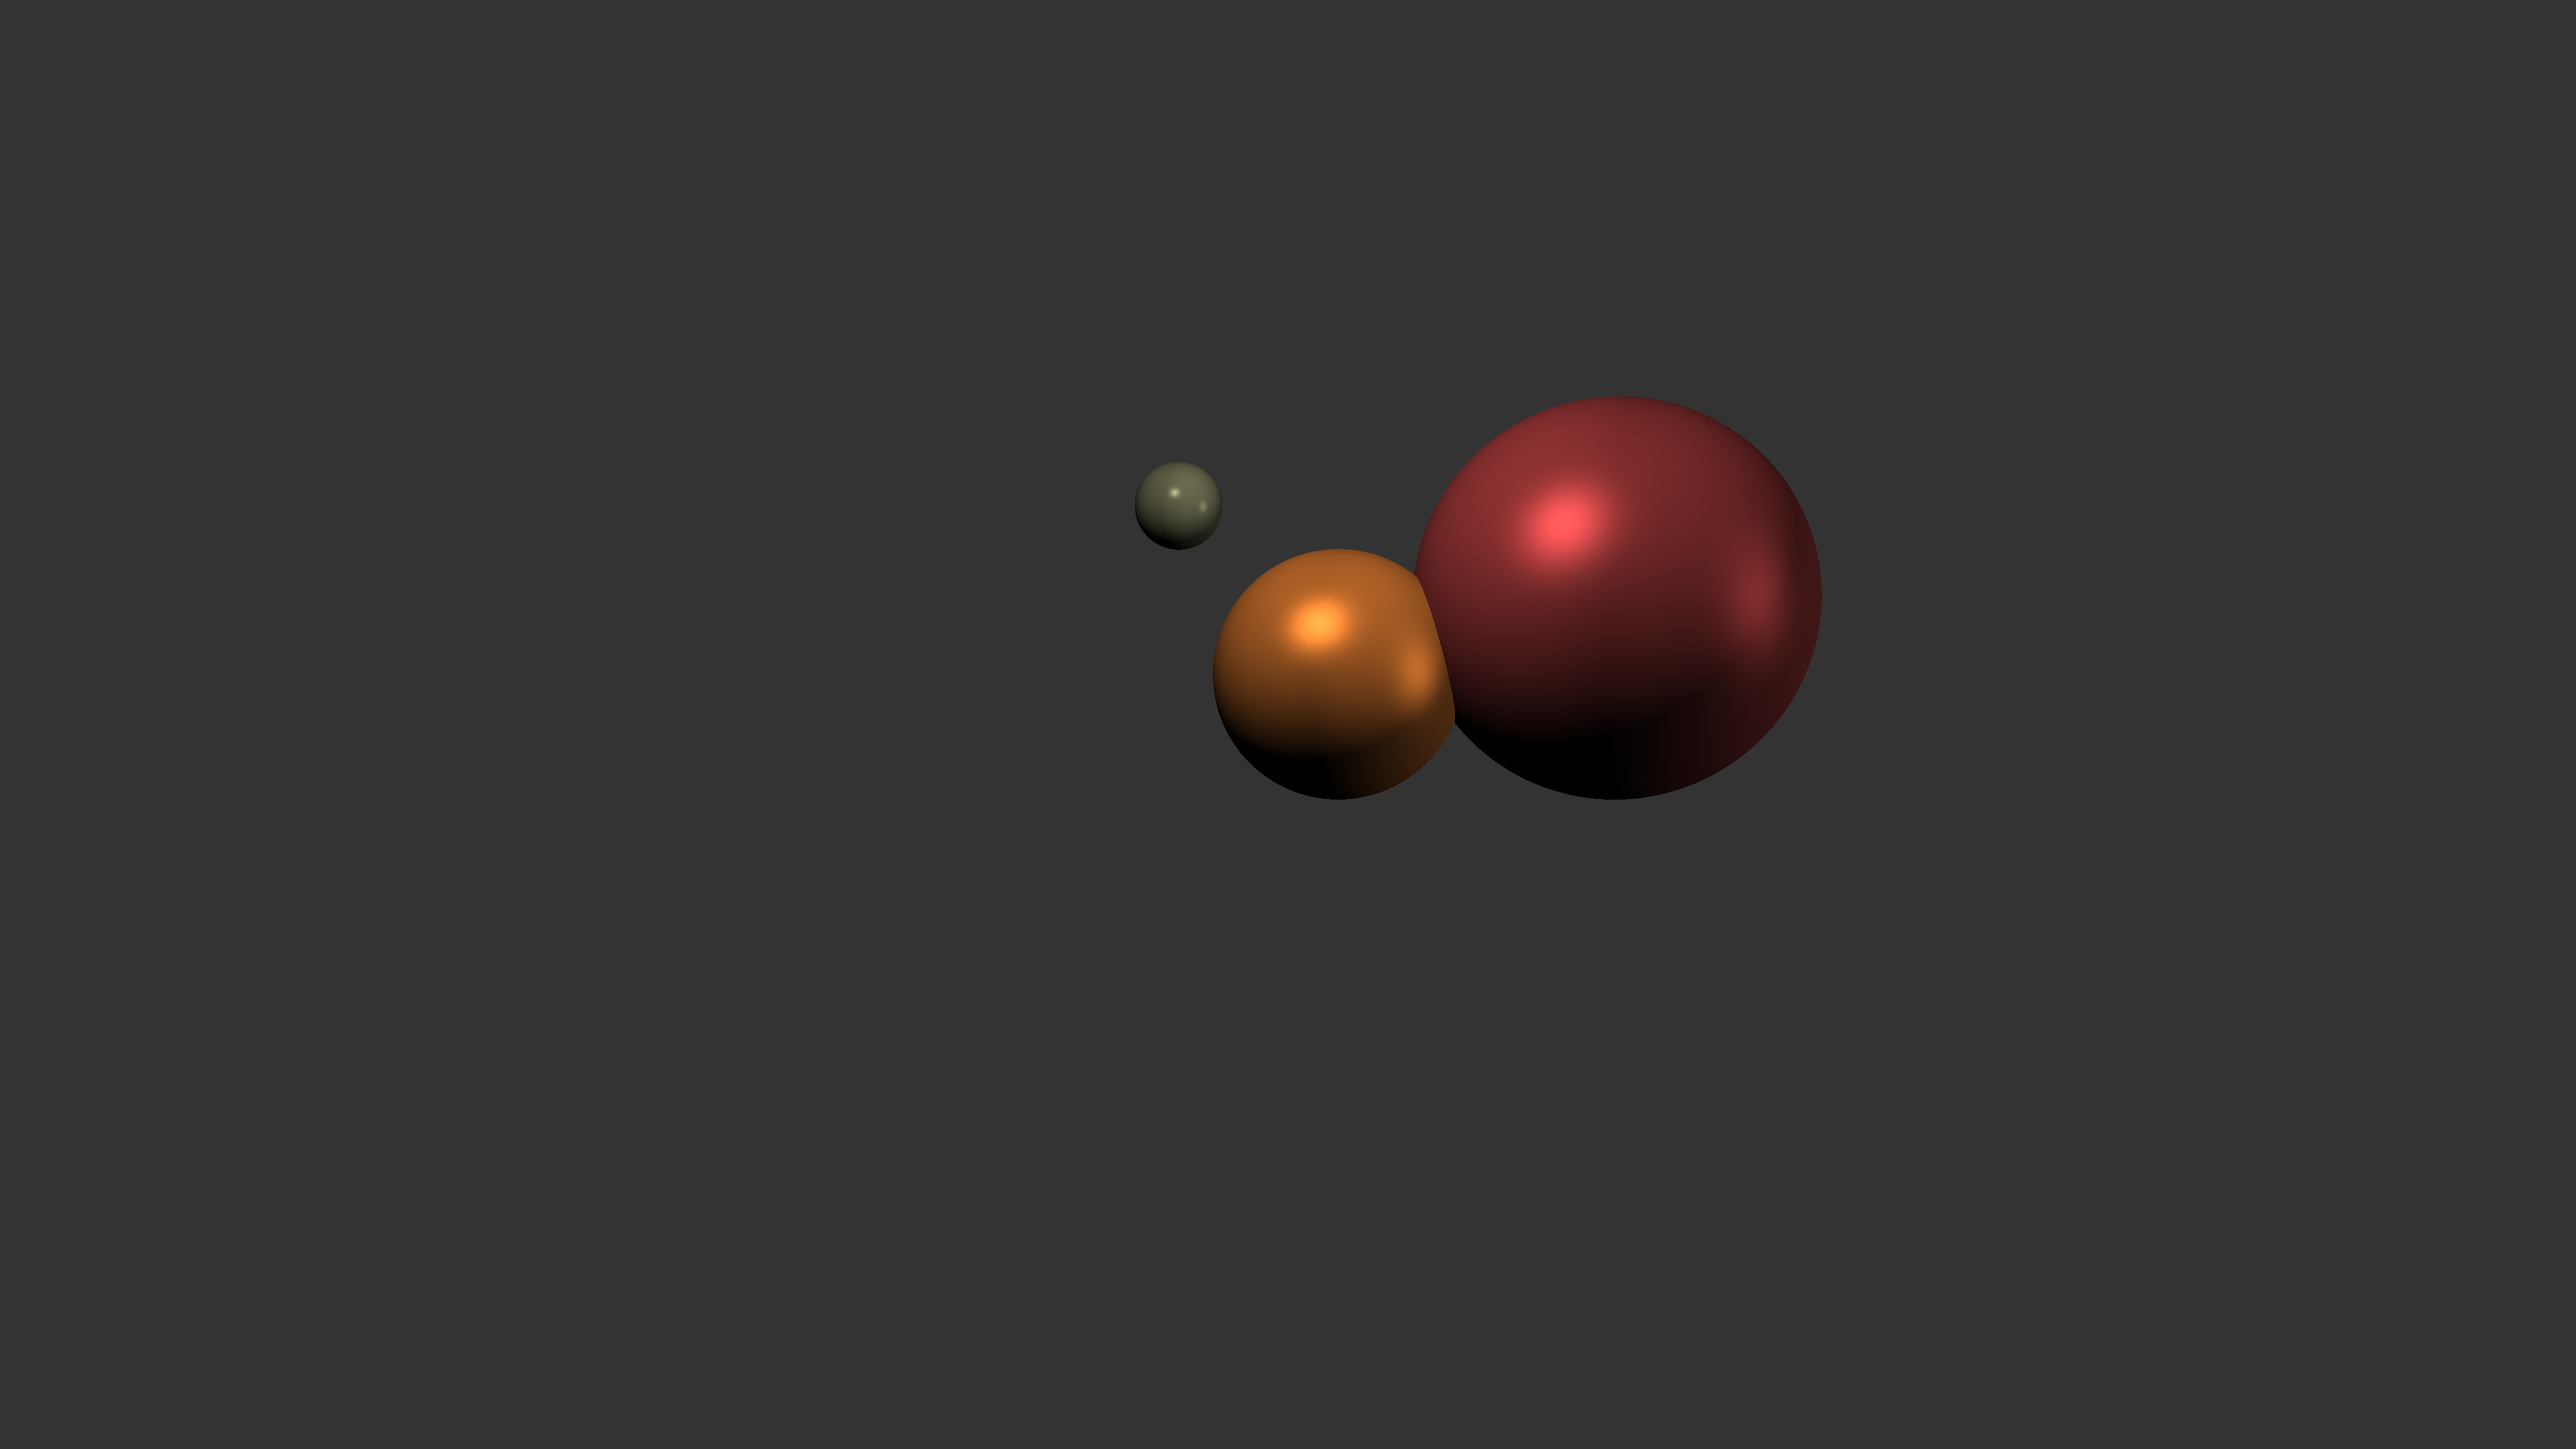
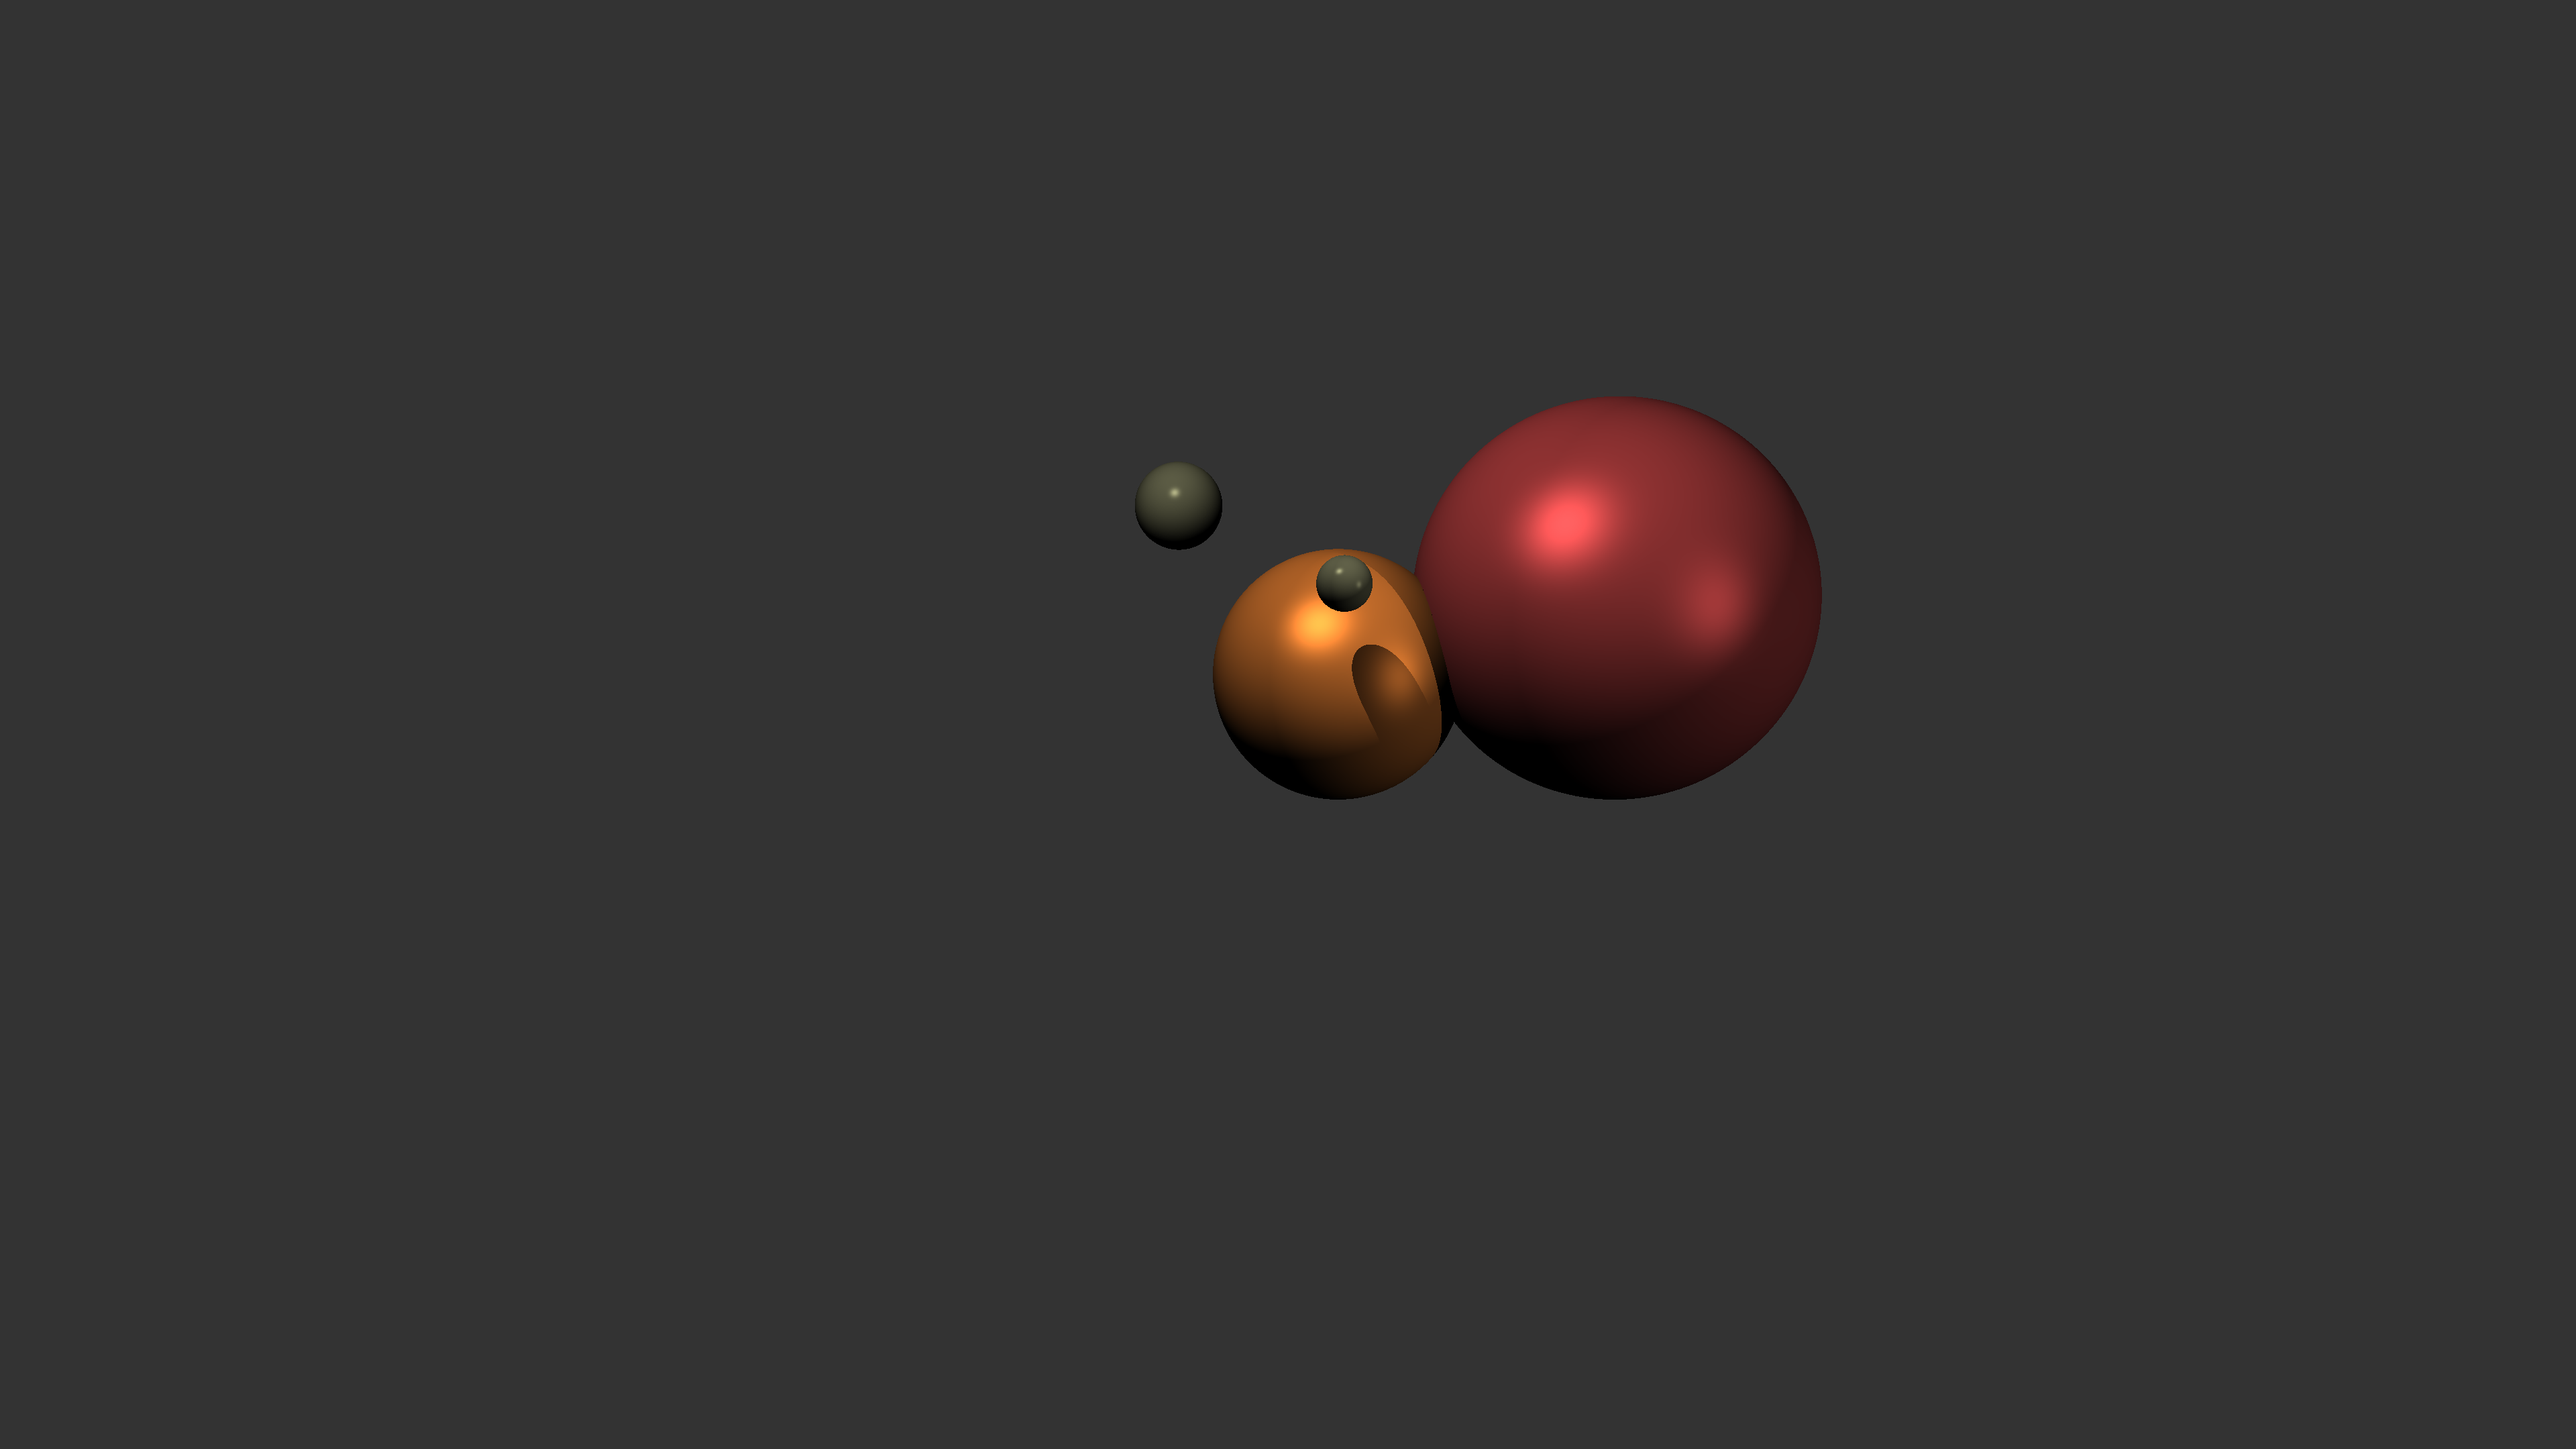
added shadowing

Changed region(s): [[0.5938, 0.3412, 0.7188, 0.4963], [0.5, 0.3722, 0.5625, 0.4963], [0.4375, 0.3412, 0.5, 0.3722]]

diff --git a/main.go b/main.go
@@ -74,6 +74,10 @@ func (v vector) Normalize() vector {
 	return NewNormalized(v.x, v.y, v.z)
 }
 
+func (v vector) Length() float64 {
+	return math.Sqrt(v.x*v.x + v.y*v.y + v.z*v.z)
+}
+
 func (v vector) Reflect(n vector) vector {
 	// assuming v is normalized
 	return v.Sub(n.Multiply(2.0*v.DotProduct(n)))
@@ -140,6 +144,20 @@ func sceneIntersec(origin, dir vector, scene []object) (intersection, normale ve
 	return intersection, normale, obj
 }
 
+func isShadowed(l light, scene []object, dir, intersection, normale vector) bool {
+		var shadowOrig vector
+		lightDist := l.position.Sub(intersection).Length()
+		if dir.DotProduct(normale) < 0 {
+			shadowOrig = intersection.Sub(normale.Multiply(1e-3))
+		} else {
+			shadowOrig = intersection.Add(normale.Multiply(1e-3))
+		}
+		if shadowPoint, _, o := sceneIntersec(shadowOrig, dir, scene); o != nil {
+			return shadowPoint.Sub(shadowOrig).Length() < lightDist
+		}
+		return false
+}
+
 func castRay(origin, dir vector, scene []object, lights []light) vector {
 	intersection, normale, obj := sceneIntersec(origin, dir, scene)
 	if obj == nil {
@@ -151,6 +169,11 @@ func castRay(origin, dir vector, scene []object, lights []light) vector {
 	var diffuseFactor, specularFactor float64
 	for i := range lights {
 		lightDir := lights[i].position.Sub(intersection).Normalize()
+
+		if isShadowed(lights[i], scene, lightDir, intersection, normale) {
+			continue
+		}
+
 		diffuseFactor = lights[i].intensity*math.Max(0.0, lightDir.DotProduct(normale))
 		specularFactor = lights[i].intensity*math.Pow(
 			math.Max(0.0, lightDir.Reflect(normale).DotProduct(dir)),
@@ -173,10 +196,11 @@ func render(img *image.RGBA) {
 		&sphere{5, vector{2, 2, -20}, matOrangeMetal},
 		&sphere{2, vector{-5, 10, -30}, matIvory},
 		&sphere{8, vector{13, 5, -20}, matRedMetal},
+		&sphere{1, vector{2, 5, -12}, matIvory},
 	}
 	lights := []light{
 		{vector{-10, 30, 10}, 1.5},
-		{vector{110, 0, 10}, 0.7},
+		{vector{40, 0, 10}, 0.7},
 	}
 
 	for y := 0; y < RESY; y++ {
